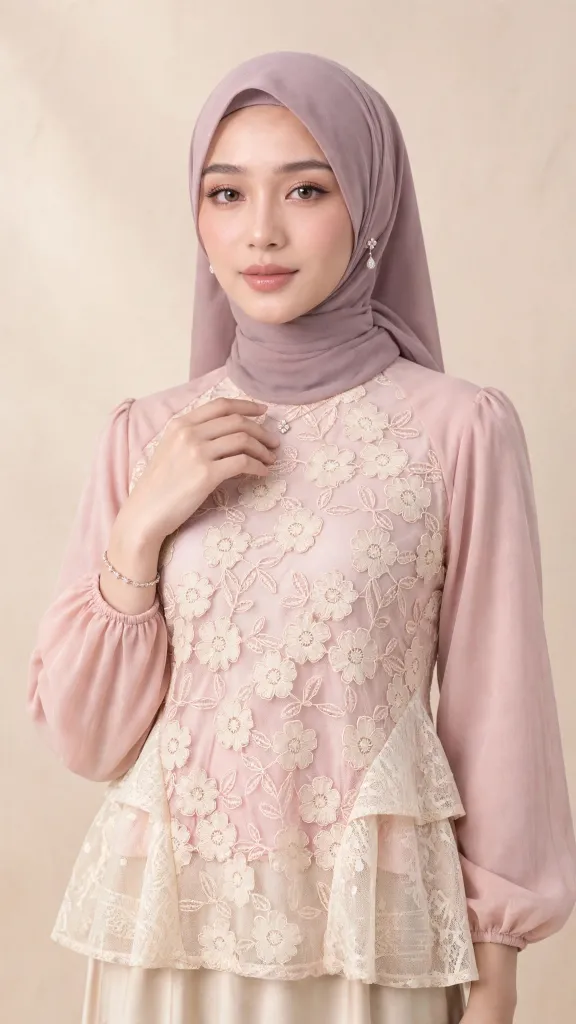
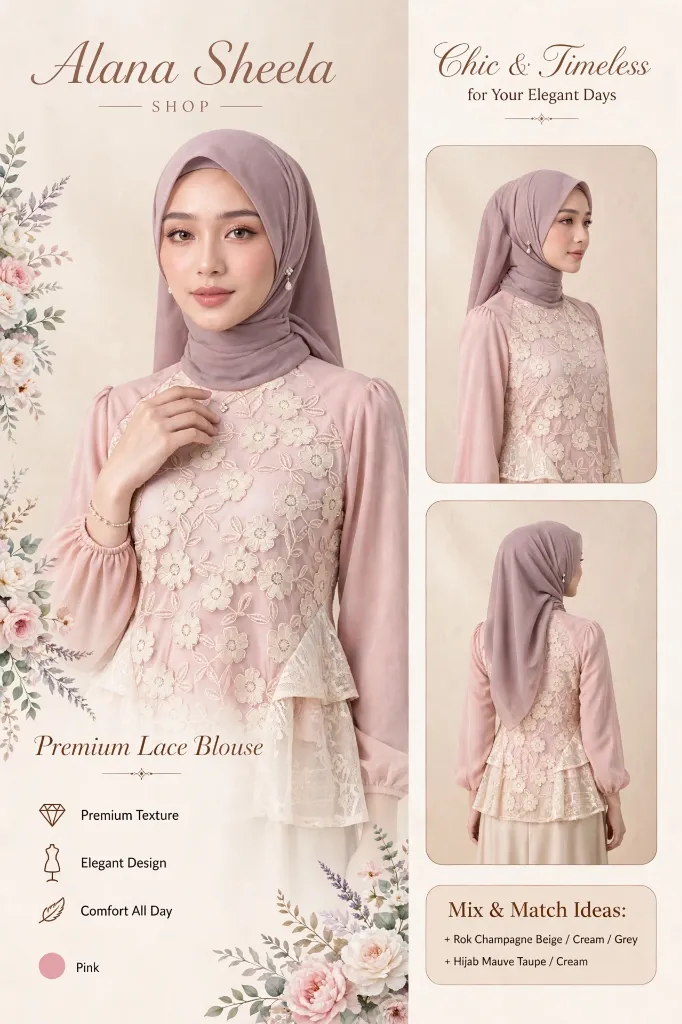
chore: update Look 2 image with editorial lace blouse poster

diff --git a/src/data/asc-mix-match.ts b/src/data/asc-mix-match.ts
@@ -90,33 +90,33 @@ export const ASC_MIX_MATCH_LOOKS: MixMatchLook[] = [
   },
   {
     id: 'look-02',
-    title: 'Nordic Sandstone Minimalist',
-    subtitle: 'Gaya smart casual bernuansa earthy yang clean & rapi untuk ngantor atau kuliah',
-    occasion: 'Office & Campus Day',
-    badge: 'Best Recommendation',
-    fullLookImage: '/lala-dress/lala-look-04-olive-saffron.jpg',
+    title: 'Chic & Timeless Lace Blouse',
+    subtitle: 'Paduan anggun blus brokat floral untuk acara pesta, arisan, atau hari elegan',
+    occasion: 'Kondangan & Elegant Days',
+    badge: 'Chic & Timeless',
+    fullLookImage: '/products/blouse-kondangan-editorial.webp',
     lalaQuote:
-      'Kemeja oversize linen dipadu rok plisket silk krem memberikan kesan rapi tanpa terasa kaku. Loafers chunky bikin look lebih modern!',
+      'Paduan blouse lace floral dusty rose ini dengan rok champagne beige dan heels tahu bikin look kelihatan anggun, mewah, dan timeless!',
     items: {
       top: {
         type: 'top',
         typeLabel: 'Atasan (Top)',
         categoryTab: 'tops',
         productId: 'asc-tp-02',
-        name: 'Kemeja Oversize Linen Krem Alami',
-        color: 'Krem Alabaster',
-        image: '/lala-dress/lala-nordic-01-frosted-aqua.jpg',
+        name: 'Blouse Kondangan Brokat Floral',
+        color: 'Dusty Rose Lilac',
+        image: '/products/blouse-kondangan-editorial.webp',
         platform: 'shopee',
         marketplaceName: 'Shopee',
-        affiliateUrl: 'https://shopee.co.id',
+        affiliateUrl: 'https://s.shopee.co.id/9V3EwEiOIE',
       },
       bottom: {
         type: 'bottom',
         typeLabel: 'Bawahan (Bottom)',
         categoryTab: 'bottoms',
         productId: 'asc-bt-01',
-        name: 'Rok Plisket Flare Silk Krem Lembut',
-        color: 'Krem Vanila',
+        name: 'Rok Plisket Flare Silk Krem Champagne',
+        color: 'Krem Champagne',
         image: '/lala-dress/lala-look-04-olive-saffron.jpg',
         platform: 'shopee',
         marketplaceName: 'Shopee',
@@ -126,10 +126,10 @@ export const ASC_MIX_MATCH_LOOKS: MixMatchLook[] = [
         type: 'bag',
         typeLabel: 'Tas (Bag)',
         categoryTab: 'tas',
-        productId: 'asc-tas-03',
-        name: 'Casual Canvas Tote Bag Sandstone',
-        color: 'Sandstone Khaki',
-        image: '/lala-dress/lala-look-04-olive-saffron.jpg',
+        productId: 'asc-tas-01',
+        name: 'Minimalist Shoulder Bag Krem Ivory',
+        color: 'Ivory Krem',
+        image: '/lala-dress/lala-look-03-cobalt-platinum.jpg',
         platform: 'shopee',
         marketplaceName: 'Shopee',
         affiliateUrl: 'https://shopee.co.id',
@@ -138,13 +138,13 @@ export const ASC_MIX_MATCH_LOOKS: MixMatchLook[] = [
         type: 'shoes',
         typeLabel: 'Sepatu (Shoes)',
         categoryTab: 'sepatu',
-        productId: 'asc-sp-02',
-        name: 'Chunky Loafers Nordic Minimalist Sand',
-        color: 'Sandstone Beige',
-        image: '/lala-dress/gamis-genz-1.jpg',
-        platform: 'tiktok',
-        marketplaceName: 'TikTok Shop',
-        affiliateUrl: 'https://www.tiktok.com',
+        productId: 'asc-sp-03',
+        name: 'Block Heels 3cm Ivory Pearl Kondangan',
+        color: 'Ivory Pearl',
+        image: '/lala-dress/lala-kondangan-02-dusty-rose.jpg',
+        platform: 'shopee',
+        marketplaceName: 'Shopee',
+        affiliateUrl: 'https://shopee.co.id',
       },
     },
   },

diff --git a/src/data/asc-products.ts b/src/data/asc-products.ts
@@ -235,7 +235,7 @@ export const ASC_PRODUCTS: ASCProduct[] = [
     originalPrice: 0,
     rating: 4.9,
     soldCount: '3.0rb+',
-    image: '/products/blouse-kondangan-brokat-floral.webp',
+    image: '/products/blouse-kondangan-editorial.webp',
     badge: 'Anggun Kondangan',
     isLalaPick: true,
     description:
